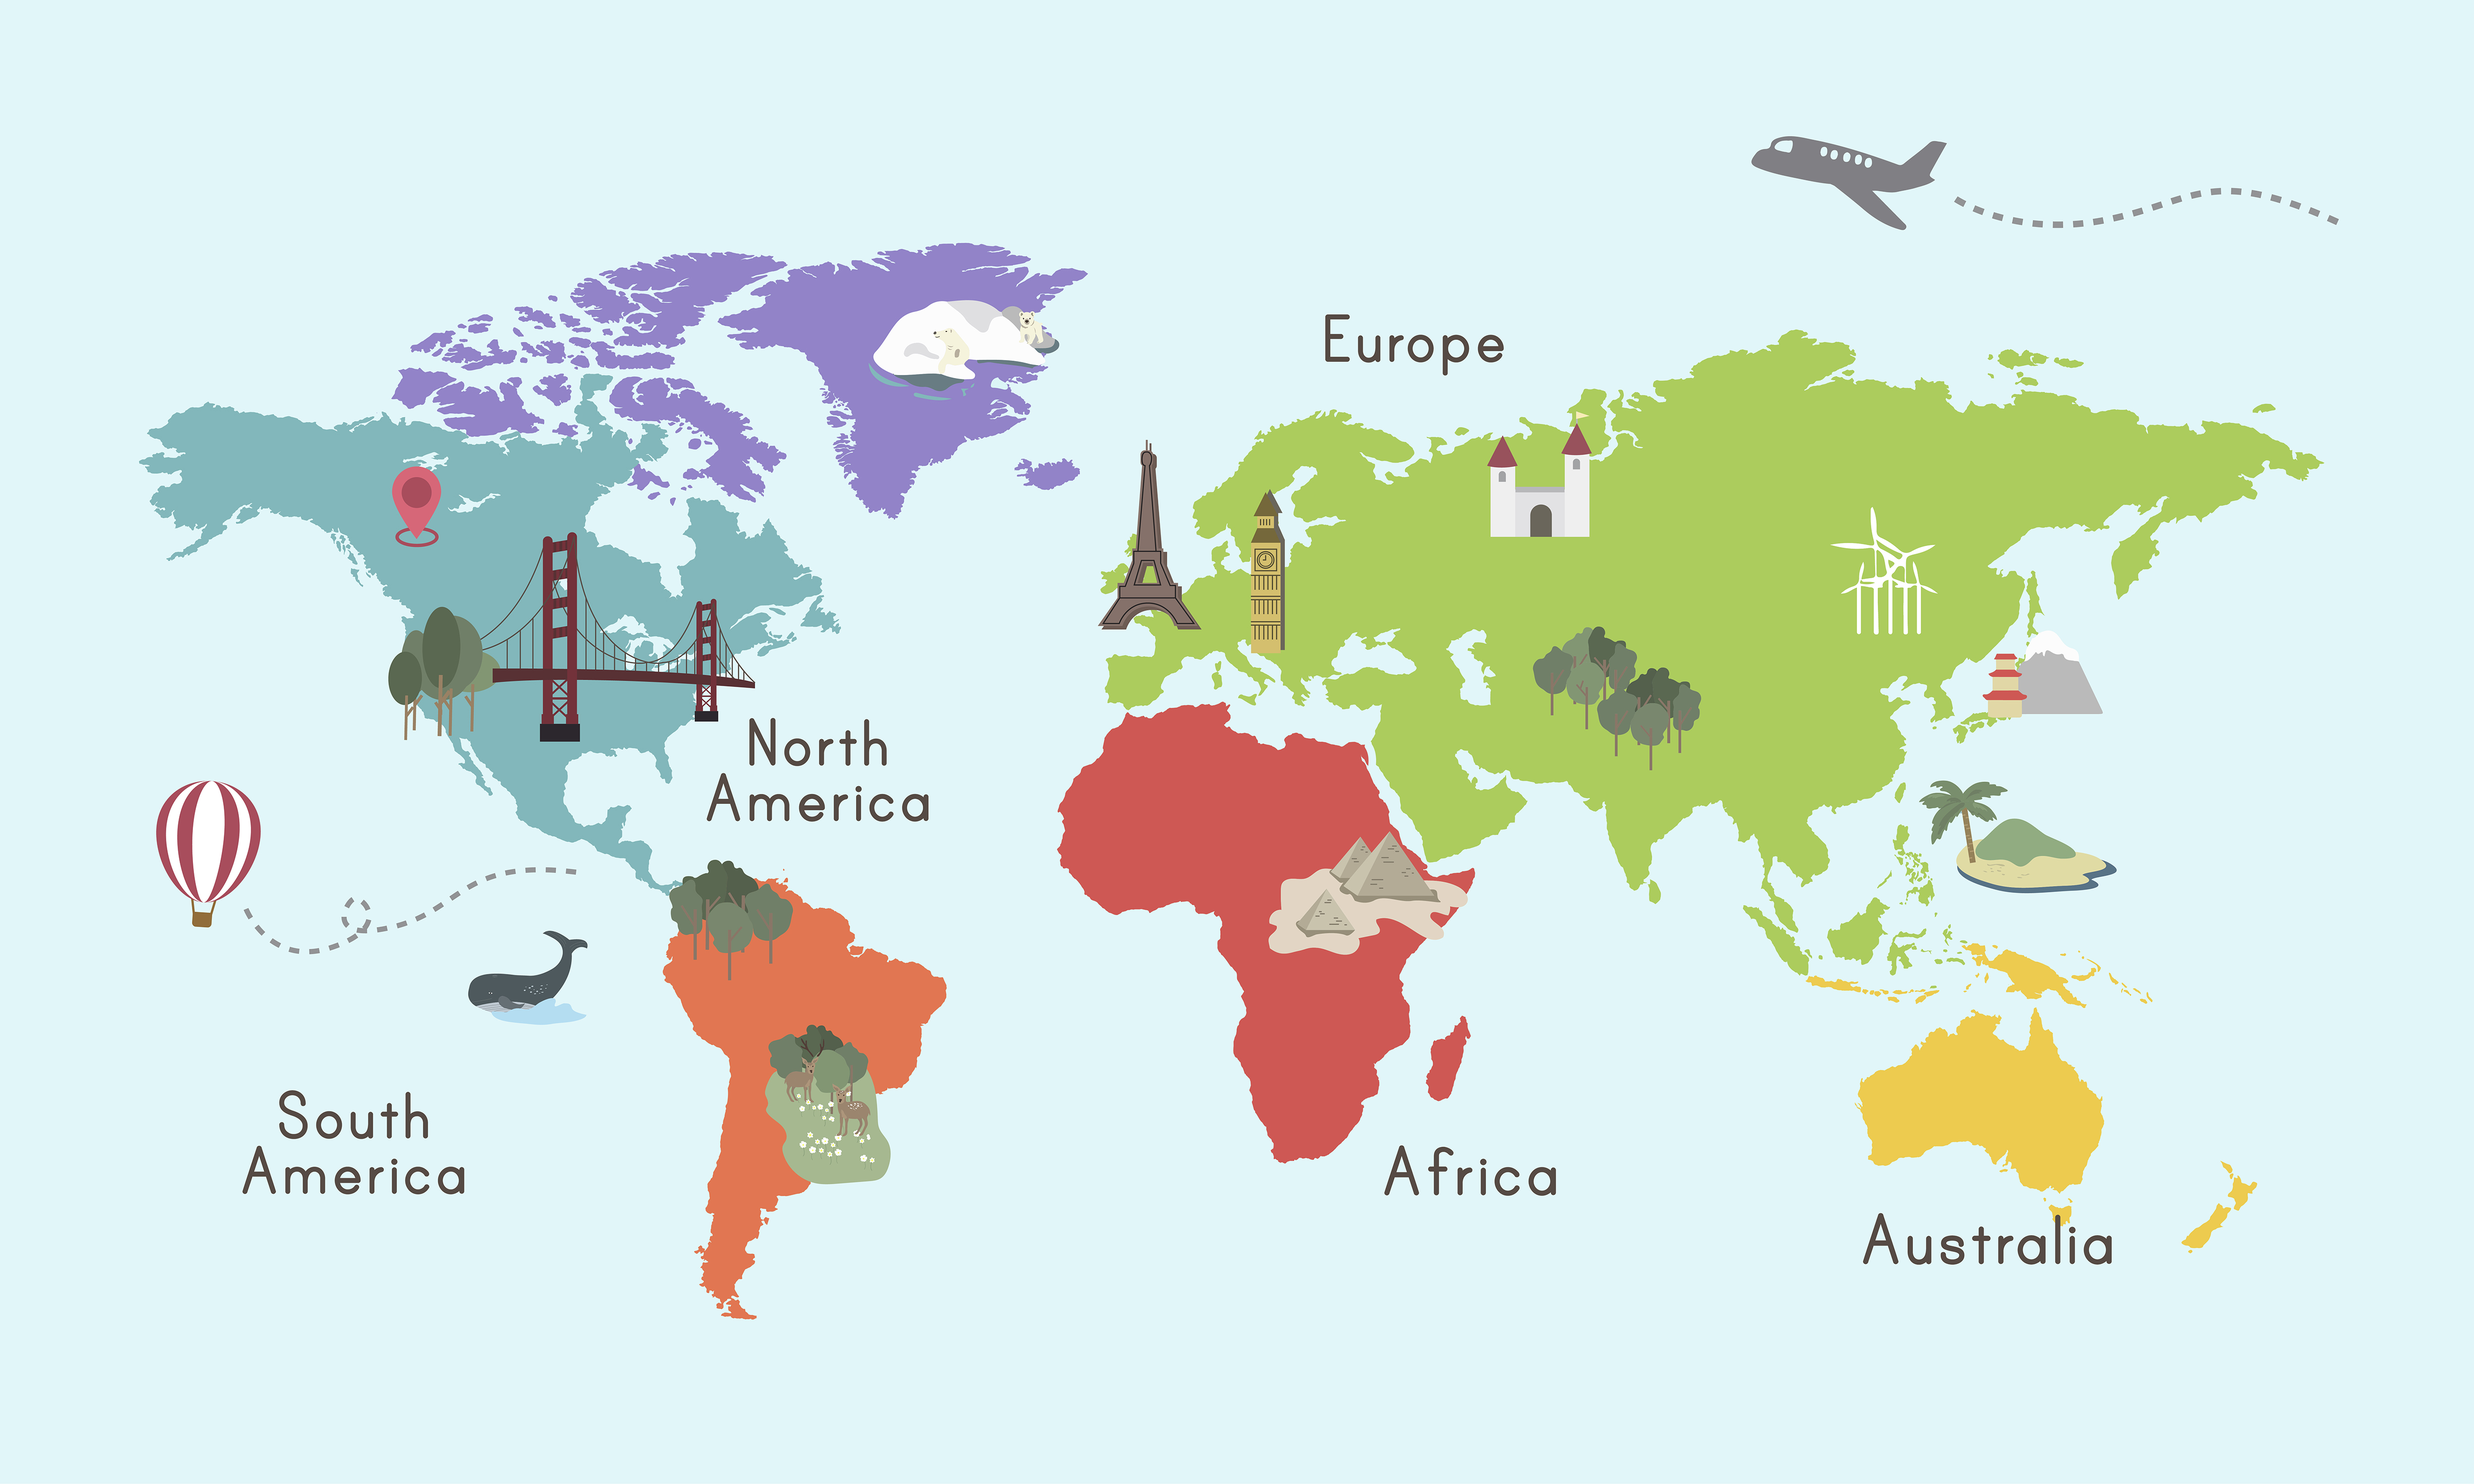
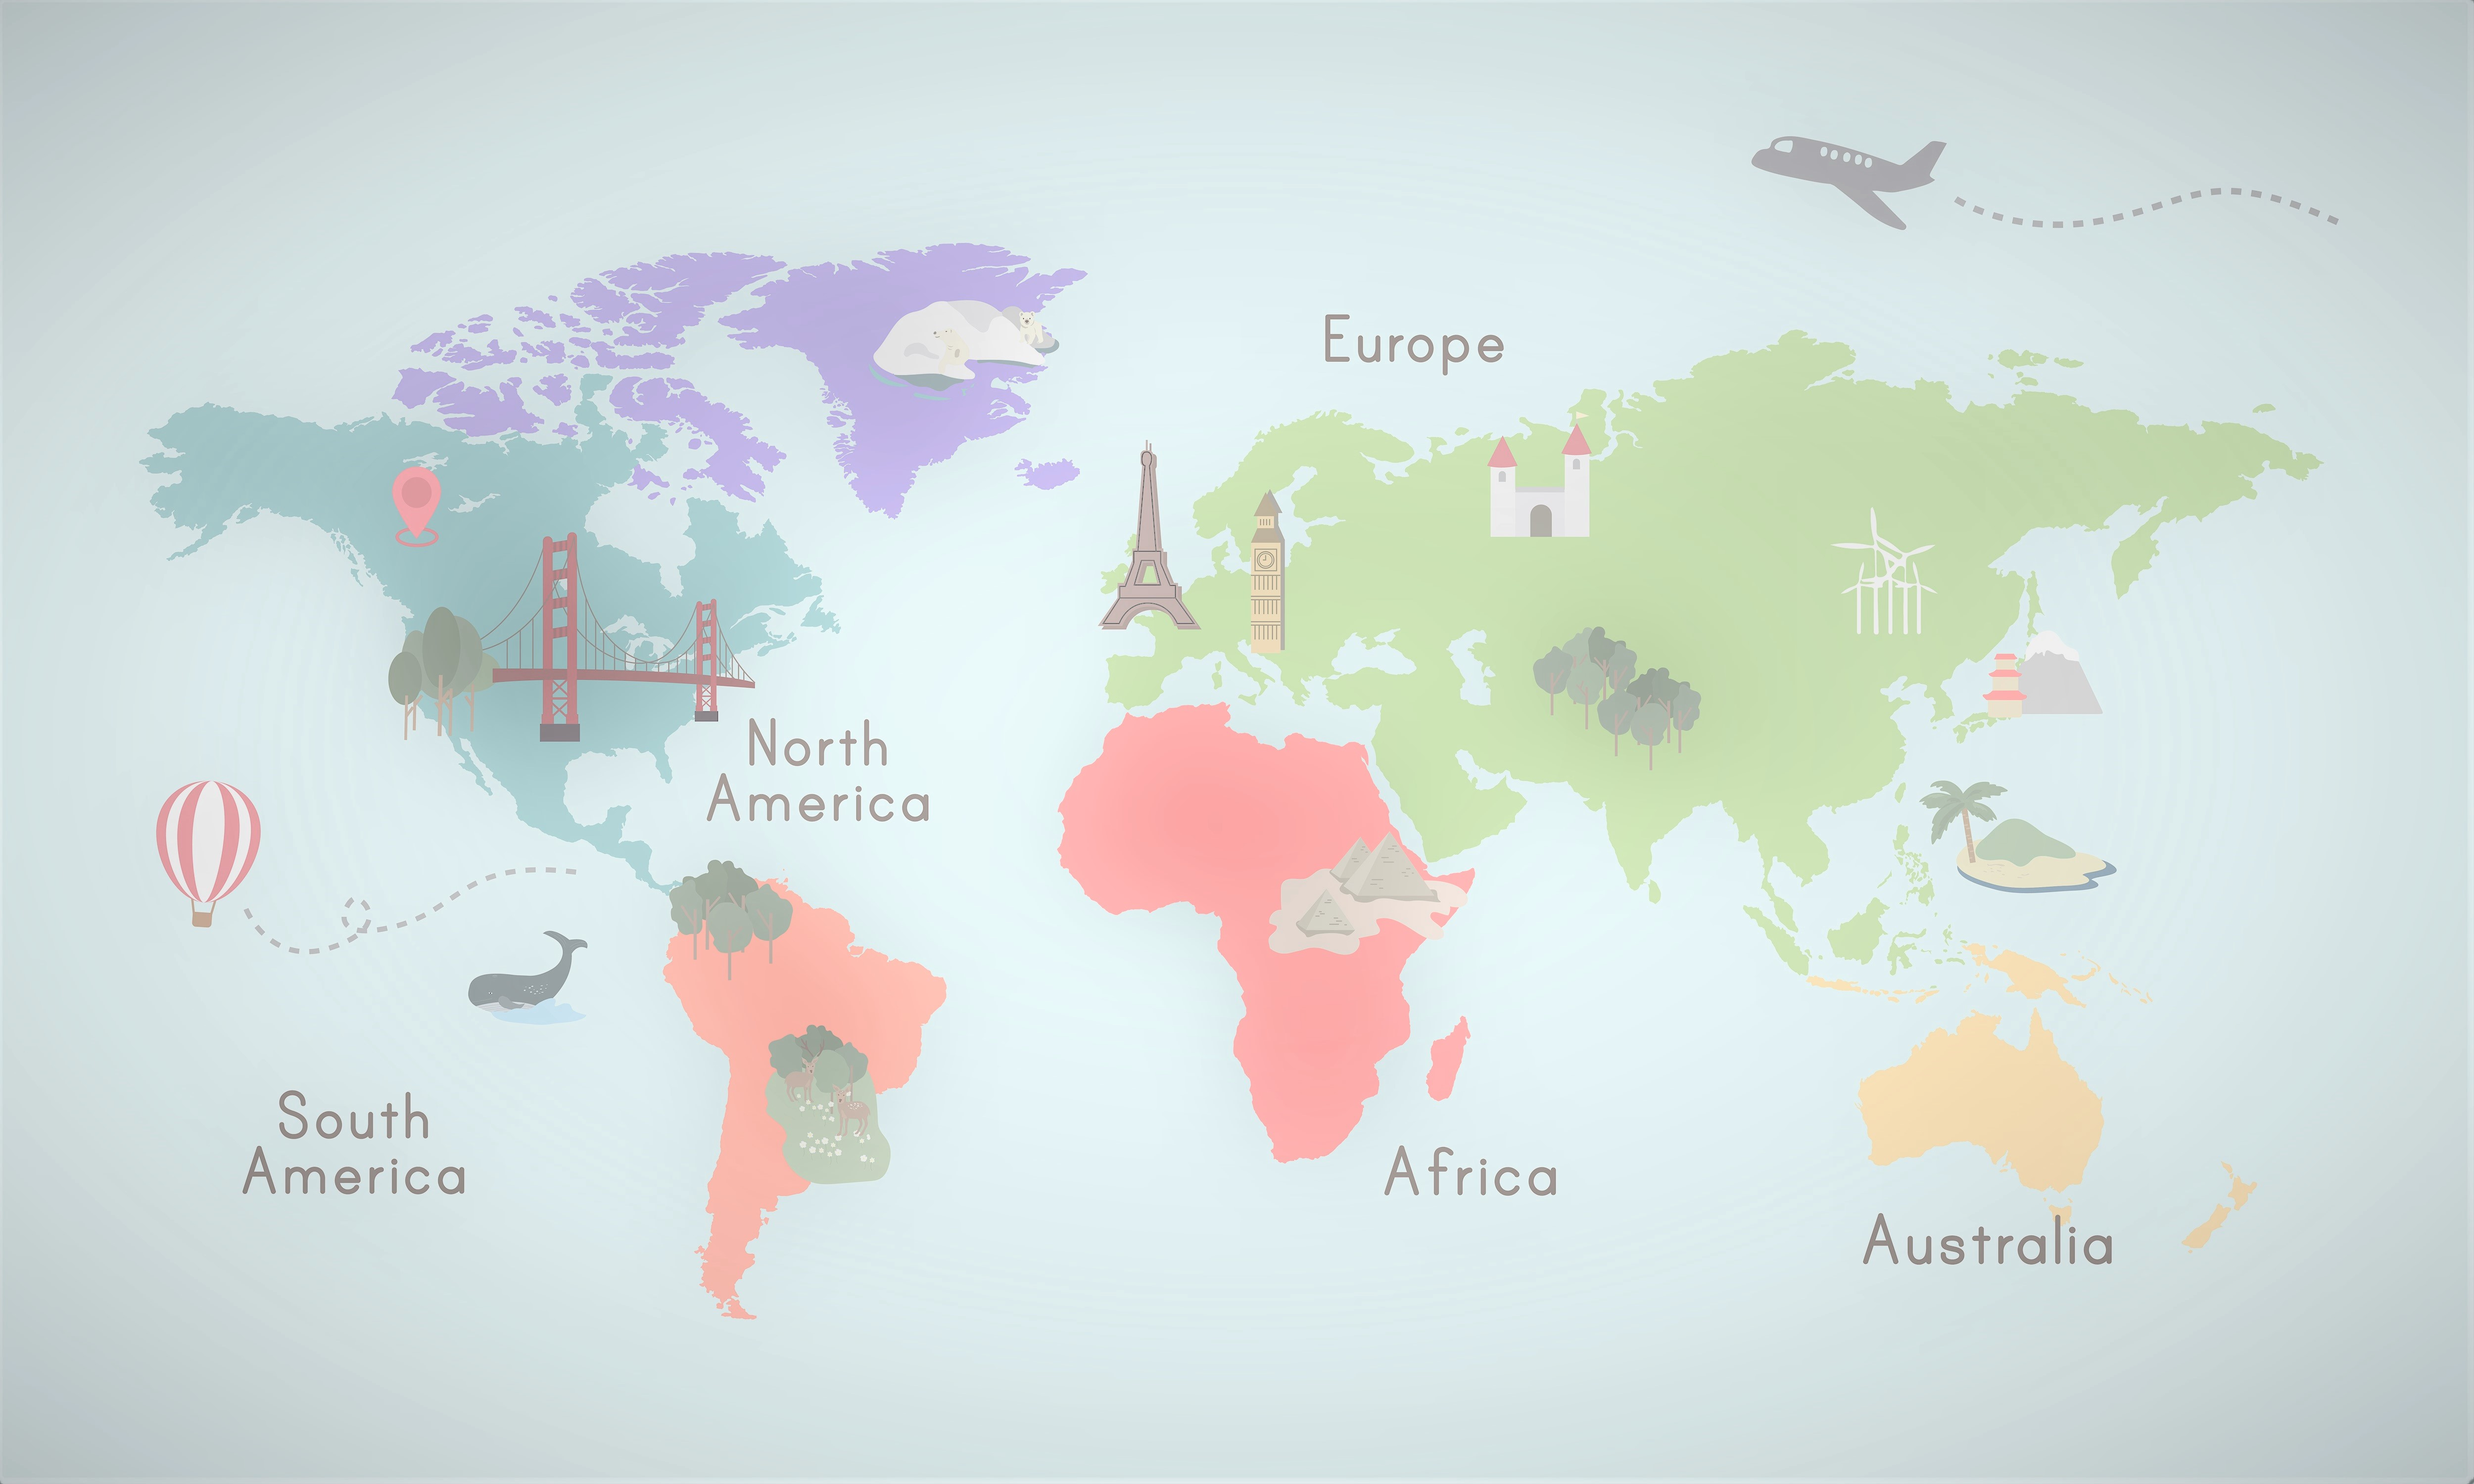
define background

diff --git a/index.html b/index.html
@@ -16,20 +16,18 @@
 
         </div>
     </header>
-    <div class="corpo">
-        <h1>
-            Os Melhores Destinos do Mundo!
-        </h1>
-        <button id="btn-mais-opções">
-            Ver Mais
-        </button>
-        
-        <h2>
-            Principais Destinos
-        </h2>
-    
-    </div>
 
+    <h1>
+        Os Melhores Destinos do Mundo!
+    </h1>
+    <button id="btn-mais-opções">
+        Ver Mais
+    </button>
+    
+    <h2>
+        Principais Destinos
+    </h2>
+    
     <script src="https://kit.fontawesome.com/72fef56070.js" crossorigin="anonymous"></script>
 </body>
 </html>

diff --git a/css/style.css b/css/style.css
@@ -3,24 +3,12 @@
 }
 
 body {
+	background-image:url(/assets/bg-home.jpg);
+	background-size: cover;
+	background-repeat: no-repeat;
 	font-family: 'Montserrat', sans-serif;
 	margin: auto 180px auto 180px;
-}	
-
-.corpo {
-}
-
-.hero::before {    
-	content: "";
-	background-image: url(/assets/bg-home.jpg);
-	background-size: cover;
-	position: absolute;
-	top: 0px;
-	right: 0px;
-	bottom: 0px;
-	left: 0px;
-	opacity: 0.75;
-}
+}									
 
 header {
 	width: auto;
